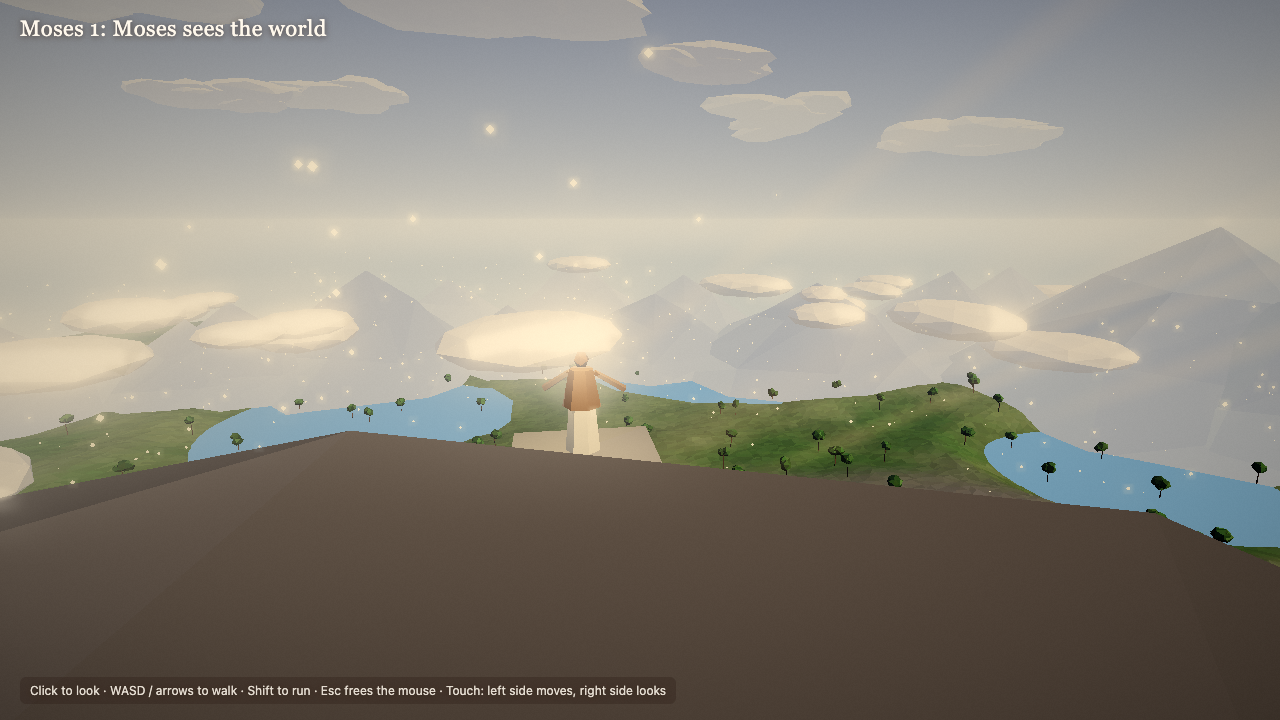
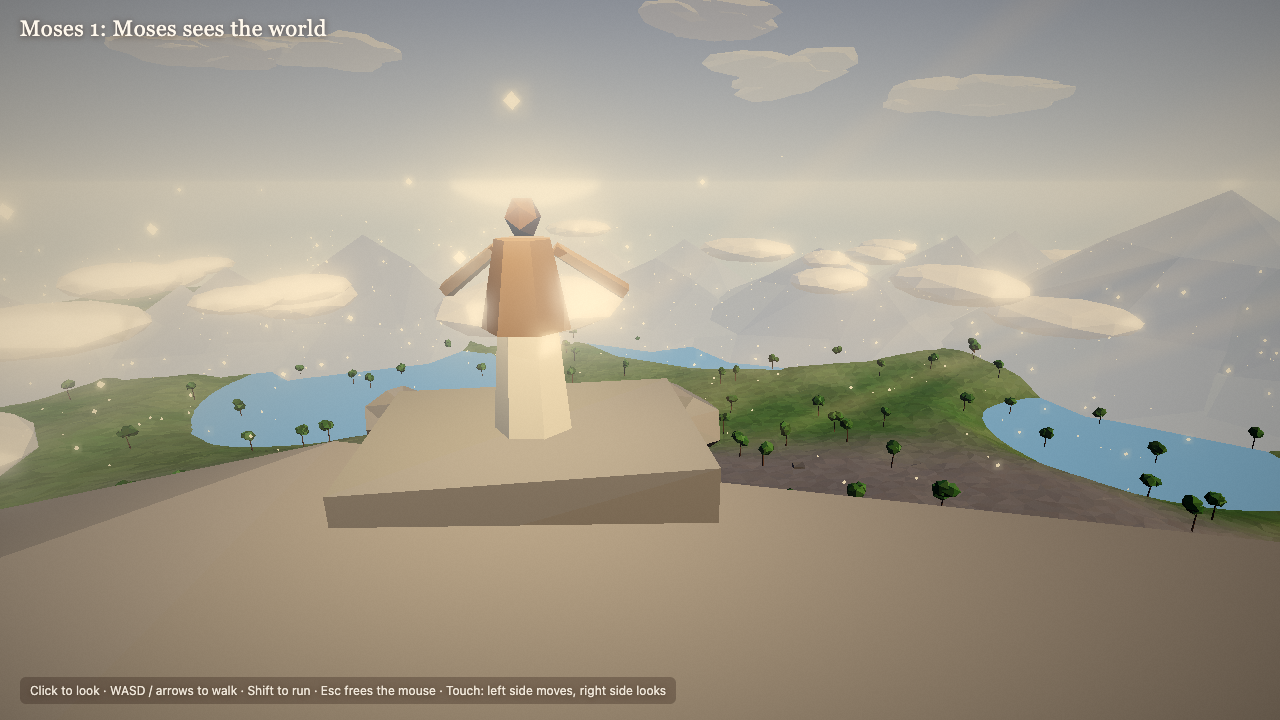
feat: polish lowpoly scenes pgp-01 to pgp-06

diff --git a/styles/lowpoly/scenes/pgp-06.js b/styles/lowpoly/scenes/pgp-06.js
@@ -6,8 +6,8 @@ import * as THREE from 'three';
 import { stars, cloudLayer } from './lib/pgp-01-kit.js';
 
 const DAIS = [0, -30];
-const FATHER = [-1.6, -31.6];
-const SON = [1.4, -28.2];
+const FATHER = [-1.7, -24.6];
+const SON = [1.7, -23.8];
 
 const noble = Array.from({ length: 22 }, (_, i) => {
   const a = Math.PI * (0.2 + (i / 21) * 0.6);
@@ -28,7 +28,7 @@ export default {
   grade: { saturation: 1.05, contrast: 1.05, vignette: 0.45, shadowTint: '#2a2a6a', highlightTint: '#fff2dc' },
   shadow: { center: [0, -10], radius: 70 },
 
-  player: { start: [0.6, 1], yaw: 0, pitch: 0.16, eye: 1.65, speed: 4.5 },
+  player: { start: [0, -12.5], yaw: 0, pitch: 0.24, eye: 1.65, speed: 4.5 },
 
   terrain: {
     size: 900,
@@ -42,7 +42,7 @@ export default {
   },
 
   objects: [
-    { type: 'steppedPyramid', x: DAIS[0], z: DAIS[1], w: 20, d: 20, tiers: 5, tierHeight: 1.1, inset: 1.4, stairWidth: 5, color: '#9a90c8', trim: '#7a70a8', stairColor: '#aaa2d4' },
+    { type: 'steppedPyramid', x: DAIS[0], z: DAIS[1], w: 20, d: 20, tiers: 3, tierHeight: 1.1, inset: 1.4, stairWidth: 5, color: '#9a90c8', trim: '#7a70a8', stairColor: '#aaa2d4' },
   ],
 
   crowd: {
@@ -67,19 +67,17 @@ export default {
 
   figures: [
     {
-      x: FATHER[0], z: FATHER[1], face: [0, 60], scale: 1.35, robe: '#ffffff', mantle: '#fbf6ea', skin: '#fff6e6', arms: 'down', emissive: 0.6,
-      light: { color: '#fff4dc', intensity: 60, distance: 36 },
-      halo: { size: 4.5, opacity: 0.3, color: '#fff3d6' },
+      x: FATHER[0], z: FATHER[1], face: [0, 60], scale: 1.95, robe: '#f6f2ea', mantle: '#e4d8bc', skin: '#fff6e6', arms: 'down', emissive: 0.3,
+      halo: { size: 6, opacity: 0.16, color: '#fff3d6' },
     },
     {
-      x: SON[0], z: SON[1], face: [0, 60], scale: 1.2, robe: '#fbf8f0', mantle: '#f2ecde', skin: '#f4ead8', arms: 'out', emissive: 0.55,
-      light: { color: '#fff0cf', intensity: 40, distance: 24 },
-      halo: { size: 3.5, opacity: 0.3, color: '#fff3d6' },
+      x: SON[0], z: SON[1], face: [0, 60], scale: 1.75, robe: '#f4efe4', mantle: '#ddd0b2', skin: '#fff4e2', arms: 'out', emissive: 0.28,
+      halo: { size: 5.4, opacity: 0.14, color: '#fff3d6' },
     },
   ],
 
   effects: [
-    { type: 'beam', at: FATHER, height: 400, radiusBottom: 5, radiusTop: 26, color: '#fff3dc', opacity: 0.3 },
+    { type: 'beam', at: FATHER, height: 400, radiusBottom: 4, radiusTop: 26, color: '#fff3dc', opacity: 0.07 },
     { type: 'ring', at: DAIS, lift: 0.05, radius: 8.5, width: 1.2, color: '#ffe8b8', opacity: 0.6 },
     { type: 'motes', at: DAIS, radius: 14, height: 40, count: 300 },
   ],

diff --git a/styles/lowpoly/scenes/pgp-05.js b/styles/lowpoly/scenes/pgp-05.js
@@ -27,16 +27,16 @@ export default {
   fov: 66,
   exposure: 1.1,
 
-  sun: { direction: [0.9, 0.3, 0.25], color: '#a8b8ff', intensity: 1.2 },
-  light: { sky: '#4a5a9a', ground: '#2a2632', hemi: 1.4 },
+  sun: { direction: [0.9, 0.3, 0.25], color: '#a8b8ff', intensity: 2.0 },
+  light: { sky: '#5a6aaa', ground: '#3a3a52', hemi: 1.6 },
   sky: { top: '#050816', horizon: '#1e2650', ground: '#121420', sunColor: '#b8c4ff', glow: 0.0 },
-  fog: { color: '#141a34', near: 60, far: 520 },
+  fog: { color: '#1c2444', near: 80, far: 560 },
   mountains: { count: 40, color: '#141828', radius: [480, 700], height: [30, 90], haze: 0.35 },
   bloom: { strength: 0.9, radius: 0.6, threshold: 0.7 },
   grade: { saturation: 1.1, contrast: 1.08, vignette: 0.5, shadowTint: '#141a50', highlightTint: '#fff2d8' },
   shadow: { center: [0, 0], radius: 40 },
 
-  player: { start: [1.6, 4.2], yaw: 0.02, pitch: 0.25, eye: 1.65, speed: 4 },
+  player: { start: [1.5, 3.0], yaw: 0.02, pitch: 0.25, eye: 1.65, speed: 4 },
 
   terrain: {
     size: 1000,
@@ -45,14 +45,14 @@ export default {
     hills: 18,
     bumps: 0.3,
     flats: [{ x: 0, z: 0, r: 10, falloff: 50, height: 9 }, { x: CAMP[0], z: CAMP[1], r: 20, falloff: 20, height: 0 }],
-    colors: { ground: '#4a4038', groundAlt: '#3e3630', grass: '#3a3c2c', high: '#4a4238', rock: '#3a322c' },
-    patches: [{ x: 0, z: 0, r: 12, color: '#5a5048', strength: 0.6, rough: 0.5 }],
+    colors: { ground: '#6e6a72', groundAlt: '#625e68', grass: '#555c58', high: '#76727e', rock: '#5c5862' },
+    patches: [{ x: 0, z: 0, r: 12, color: '#7a7270', strength: 0.6, rough: 0.5 }],
   },
 
   scatter: [
-    { type: 'rock', count: 18, center: [0, 0], ring: [8, 40], spacing: 5, seed: 7, avoid: [{ rect: [0, 2, 10, 14] }], props: { color: '#4e4640', size: 1.4 } },
-    { type: 'rock', count: 40, center: [0, 0], ring: [40, 260], spacing: 12, seed: 8, props: { color: '#3e3832' } },
-    { type: 'tree', count: 20, center: CAMP, ring: [22, 120], spacing: 10, seed: 9, avoid: [{ rect: [0, 0, 60, 60] }], props: { kind: 'palm', leaf: '#2e3a26' } },
+    { type: 'rock', count: 18, center: [0, 0], ring: [8, 40], spacing: 5, seed: 7, avoid: [{ rect: [0, 2, 10, 14] }], props: { color: '#6a6670', size: 1.4 } },
+    { type: 'rock', count: 40, center: [0, 0], ring: [40, 260], spacing: 12, seed: 8, props: { color: '#5e5a64' } },
+    { type: 'tree', count: 20, center: CAMP, ring: [22, 120], spacing: 10, seed: 9, avoid: [{ rect: [0, 0, 60, 60] }], props: { kind: 'palm', leaf: '#3e5040' } },
   ],
 
   custom(ctx) {

diff --git a/styles/lowpoly/scenes/pgp-04.js b/styles/lowpoly/scenes/pgp-04.js
@@ -24,7 +24,7 @@ export default {
   grade: { saturation: 1.1, contrast: 1.07, vignette: 0.42, shadowTint: '#30285e', highlightTint: '#ffe0b0' },
   shadow: { center: [0, -6], radius: 50 },
 
-  player: { start: [2.5, 9.5], yaw: 0.12, pitch: 0.1, eye: 1.65, speed: 4.5 },
+  player: { start: [0.9, -1.7], yaw: 0.02, pitch: 0.06, eye: 1.65, speed: 4.5 },
 
   terrain: {
     size: 1100,
@@ -82,9 +82,13 @@ export default {
     ctx.solid.add(new THREE.ConeGeometry(0.1, 0.9, 4).rotateZ(-Math.PI / 3), { position: [ax + 1.9, top + 1.05, az], color: gold });
 
     // Abraham on the altar, face upward, his loosed cords fallen on the dais.
-    const abraham = person(ctx, { x: ax + 0.85, y: top + 0.88, z: az, robe: '#f2ebdc', mantle: '#6a7a9a', skin: '#a8754f', ghost: true });
+    const bed = new THREE.Group();
+    bed.position.set(ax + 1.45, top + 1.0, az);
+    bed.rotation.x = 0.45;
+    ctx.scene.add(bed);
+    const abraham = person(ctx, { x: 0, y: 0, z: 0, parent: bed, robe: '#e8dcc0', mantle: '#3e5688', skin: '#a8754f', ghost: true, scale: 1.15 });
     abraham.rotation.order = 'YXZ';
-    abraham.rotation.set(-Math.PI / 2, -Math.PI / 2, 0);
+    abraham.rotation.set(-Math.PI / 2, Math.PI / 2, 0);
     for (const k of [-1.8, -1.4]) ctx.solid.add(new THREE.TorusGeometry(0.12, 0.025, 4, 7), { position: [ax + 1.6 + k * 0.3, top + 0.02, az + 0.9 + k * 0.2], rotation: [Math.PI / 2, 0, 0], color: '#6a5038' });
 
     // The priest of Elkenah falls back before the angel.
@@ -93,8 +97,8 @@ export default {
     person(ctx, { x: ax + 3.6, z: az - 2.4, y: top, face: [ax, az], robe: '#3a2a3a', mantle: '#c4a040', skin: '#9b6a46', hood: true });
 
     // The angel of the Lord's presence above the altar, light filling the place.
-    angel(ctx, { x: ax + 0.3, z: az - 0.6, y: top + 2.2, face: [ax + 2, az + 20], scale: 1.2, arms: 'out', light: 60, distance: 26, halo: 8, float: 0.01 });
-    ctx.effects.beam({ position: [ax, top, az], height: 300, radiusBottom: 2.4, radiusTop: 12, color: '#fff3dc', opacity: 0.5 });
+    angel(ctx, { x: ax + 0.3, z: az - 1.3, y: top + 2.0, face: [ax + 2, az + 20], scale: 1.2, arms: 'out', light: 22, distance: 26, halo: 4.5, float: 0.01 });
+    ctx.effects.beam({ position: [ax, top, az], height: 300, radiusBottom: 2.4, radiusTop: 12, color: '#fff3dc', opacity: 0.32 });
     ctx.effects.motes({ position: [ax, top, az], radius: 3, height: 30, count: 140 });
 
     // The idols: gods of Elkenah, Libnah, Mahmackrah and Korash, and a great seated Elkenah behind.

diff --git a/styles/lowpoly/scenes/pgp-03.js b/styles/lowpoly/scenes/pgp-03.js
@@ -36,7 +36,7 @@ export default {
   grade: { saturation: 1.08, contrast: 1.06, vignette: 0.4, shadowTint: '#2a2c5e', highlightTint: '#fff0d0' },
   shadow: { center: [0, 0], radius: 60 },
 
-  player: { start: [6, 64], yaw: -0.08, pitch: 0.02, eye: 1.65, speed: 4.5 },
+  player: { start: [5, 44], yaw: -0.1, pitch: 0.0, eye: 1.65, speed: 4.5 },
 
   terrain: {
     size: 1100,
@@ -44,7 +44,7 @@ export default {
     seed: 31,
     hills: 30,
     bumps: 0.35,
-    flats: [{ x: 0, z: 10, r: 80, falloff: 60, height: 0 }, { x: 6, z: 66, r: 7, falloff: 28, height: 9 }, { x: CITY[0], z: CITY[1], r: R - 4, falloff: 8, height: -3.5 }],
+    flats: [{ x: 0, z: 10, r: 80, falloff: 60, height: 0 }, { x: 5, z: 46, r: 6, falloff: 22, height: 11 }, { x: CITY[0], z: CITY[1], r: R - 4, falloff: 8, height: -3.5 }],
     colors: { ground: '#8a7c56', groundAlt: '#7a6e4c', grass: '#6a8040', high: '#7a7458', rock: '#6a5e50' },
     patches: [
       { x: CITY[0], z: CITY[1], r: R + 4, color: '#4a3a2c', strength: 0.95, rough: 0.35 },
@@ -126,10 +126,10 @@ export default {
     city.add(createFigure({ x: 0, y: 3.6, z: 3.4, face: [0, 100], scale: 1.1, robe: '#f4efe2', mantle: '#c9b48e', skin: '#a8754f', arms: 'out', emissive: 0.35 }));
 
     // Cloud wreathing the underside of the city.
-    const ring = cloudLayer(ctx, { radius: R + 5, inner: R - 3, y: -3.5, count: 34, size: [2.2, 4.5], color: '#fff8ee', emissive: 0.2, opacity: 0.8, seed: 9 });
+    const ring = cloudLayer(ctx, { radius: R + 5, inner: R - 3, y: -3.5, count: 40, size: [1.8, 3.6], color: '#f4eee4', emissive: 0.05, opacity: 0.85, seed: 9 });
     ctx.scene.remove(ring);
     city.add(ring);
-    const under = cloudLayer(ctx, { radius: R - 10, y: -20, count: 8, size: [3, 6], color: '#fff4e4', emissive: 0.4, opacity: 0.5, seed: 10 });
+    const under = cloudLayer(ctx, { radius: R - 10, y: -20, count: 8, size: [3, 6], color: '#f4ece0', emissive: 0.1, opacity: 0.45, seed: 10 });
     ctx.scene.remove(under);
     city.add(under);
 

diff --git a/styles/lowpoly/scenes/pgp-01.js b/styles/lowpoly/scenes/pgp-01.js
@@ -5,7 +5,7 @@ import * as THREE from 'three';
 import { person, stone, cloudLayer, box } from './lib/pgp-01-kit.js';
 
 const PEAK = 150;
-const MOSES = [0, -12];
+const MOSES = [0, -8];
 const LAKES = [[-240, -420, 90], [280, -340, 60], [60, -640, 140]];
 
 export default {
@@ -15,7 +15,7 @@ export default {
   exposure: 0.92,
 
   sun: { direction: [0.55, 0.5, 0.45], color: '#fff0d4', intensity: 3.0 },
-  light: { sky: '#9ab4e8', ground: '#5a4a44', hemi: 0.8 },
+  light: { sky: '#9ab4e8', ground: '#7a6a5e', hemi: 1.0 },
   sky: { top: '#24386e', horizon: '#d8e2ec', ground: '#b8c4cc', sunColor: '#fff2d8', glow: 1.6 },
   fog: { color: '#b8c8da', near: 300, far: 2300 },
   clouds: { count: 34, shadow: '#a8a8b8', lit: '#fff0dc', rim: '#ffffff', distance: [500, 1100], altitude: [230, 340], hole: 0.05, seed: 11 },
@@ -24,7 +24,7 @@ export default {
   grade: { saturation: 1.08, contrast: 1.06, vignette: 0.4, shadowTint: '#2a3060', highlightTint: '#fff0d0' },
   shadow: { center: [0, -4], radius: 60 },
 
-  player: { start: [1.4, -3], yaw: 0.05, pitch: -0.24, eye: 1.65, speed: 3.5 },
+  player: { start: [1.0, -4.0], yaw: 0.05, pitch: -0.3, eye: 1.65, speed: 3.5 },
 
   terrain: {
     size: 1600,
@@ -35,7 +35,7 @@ export default {
     bumps: 0.5,
     flats: [{ x: 0, z: 0, r: 0, falloff: 450, height: 70 }, { x: 0, z: 0, r: 6, falloff: 60, height: PEAK }, ...LAKES.map(([x, z, rad]) => ({ x, z, r: rad, falloff: 50, height: -3 }))],
     colors: { ground: '#7d8a5a', groundAlt: '#6a7a4c', grass: '#5e7a44', high: '#8a8078', rock: '#6e6660' },
-    patches: [{ x: 0, z: 0, r: 22, color: '#6e655c', strength: 0.8, rough: 0.5 }],
+    patches: [{ x: 0, z: 0, r: 22, color: '#958a7c', strength: 0.8, rough: 0.5 }],
   },
 
   scatter: [

diff --git a/styles/lowpoly/scenes/pgp-02.js b/styles/lowpoly/scenes/pgp-02.js
@@ -25,7 +25,7 @@ export default {
   grade: { saturation: 1.1, contrast: 1.06, vignette: 0.42, shadowTint: '#30285e', highlightTint: '#ffe0b0' },
   shadow: { center: [0, -6], radius: 50 },
 
-  player: { start: [4, 15], yaw: 0.22, pitch: 0.0, eye: 1.65, speed: 4.5 },
+  player: { start: [-4.5, 7.5], yaw: -0.48, pitch: 0.0, eye: 1.65, speed: 4.5 },
 
   terrain: {
     size: 1100,
@@ -65,9 +65,9 @@ export default {
     // Adam kneels at the altar, Eve beside him. The angel stands across the altar, asking why.
     person(ctx, { x: 1.9, z: 1.3, face: ALTAR, robe: '#8a6a48', mantle: '#5e4632', skin: '#a8754f', kneel: true, arms: 'out' });
     person(ctx, { x: 3.2, z: 2.6, face: ALTAR, robe: '#b89a72', mantle: '#7a5a42', skin: '#b5835e', hood: true, kneel: true });
-    angel(ctx, { x: -2.6, z: -1.2, face: [2, 1.6], scale: 1.15, arms: 'out', light: 35, distance: 18, halo: 5.5, float: 0.35 });
+    angel(ctx, { x: -2.6, z: -1.2, face: [2, 1.6], scale: 1.15, arms: 'out', light: 18, distance: 18, halo: 3.2, float: 0.35 });
     ctx.effects.motes({ position: [-2.6, 0, -1.2], radius: 2, height: 14, count: 90 });
-    ctx.effects.beam({ position: [-2.6, 0, -1.2], height: 160, radiusBottom: 1.6, radiusTop: 6, color: '#fff3dc', opacity: 0.35 });
+    ctx.effects.beam({ position: [-2.6, 0, -1.2], height: 160, radiusBottom: 1.6, radiusTop: 6, color: '#fff3dc', opacity: 0.2 });
 
     // Firstlings of the flock, and the flock grazing nearby.
     sheep(ctx, { x: 2.6, z: -1.2, rot: -2.2, scale: 0.75, color: '#f4f0e6', lying: true });
